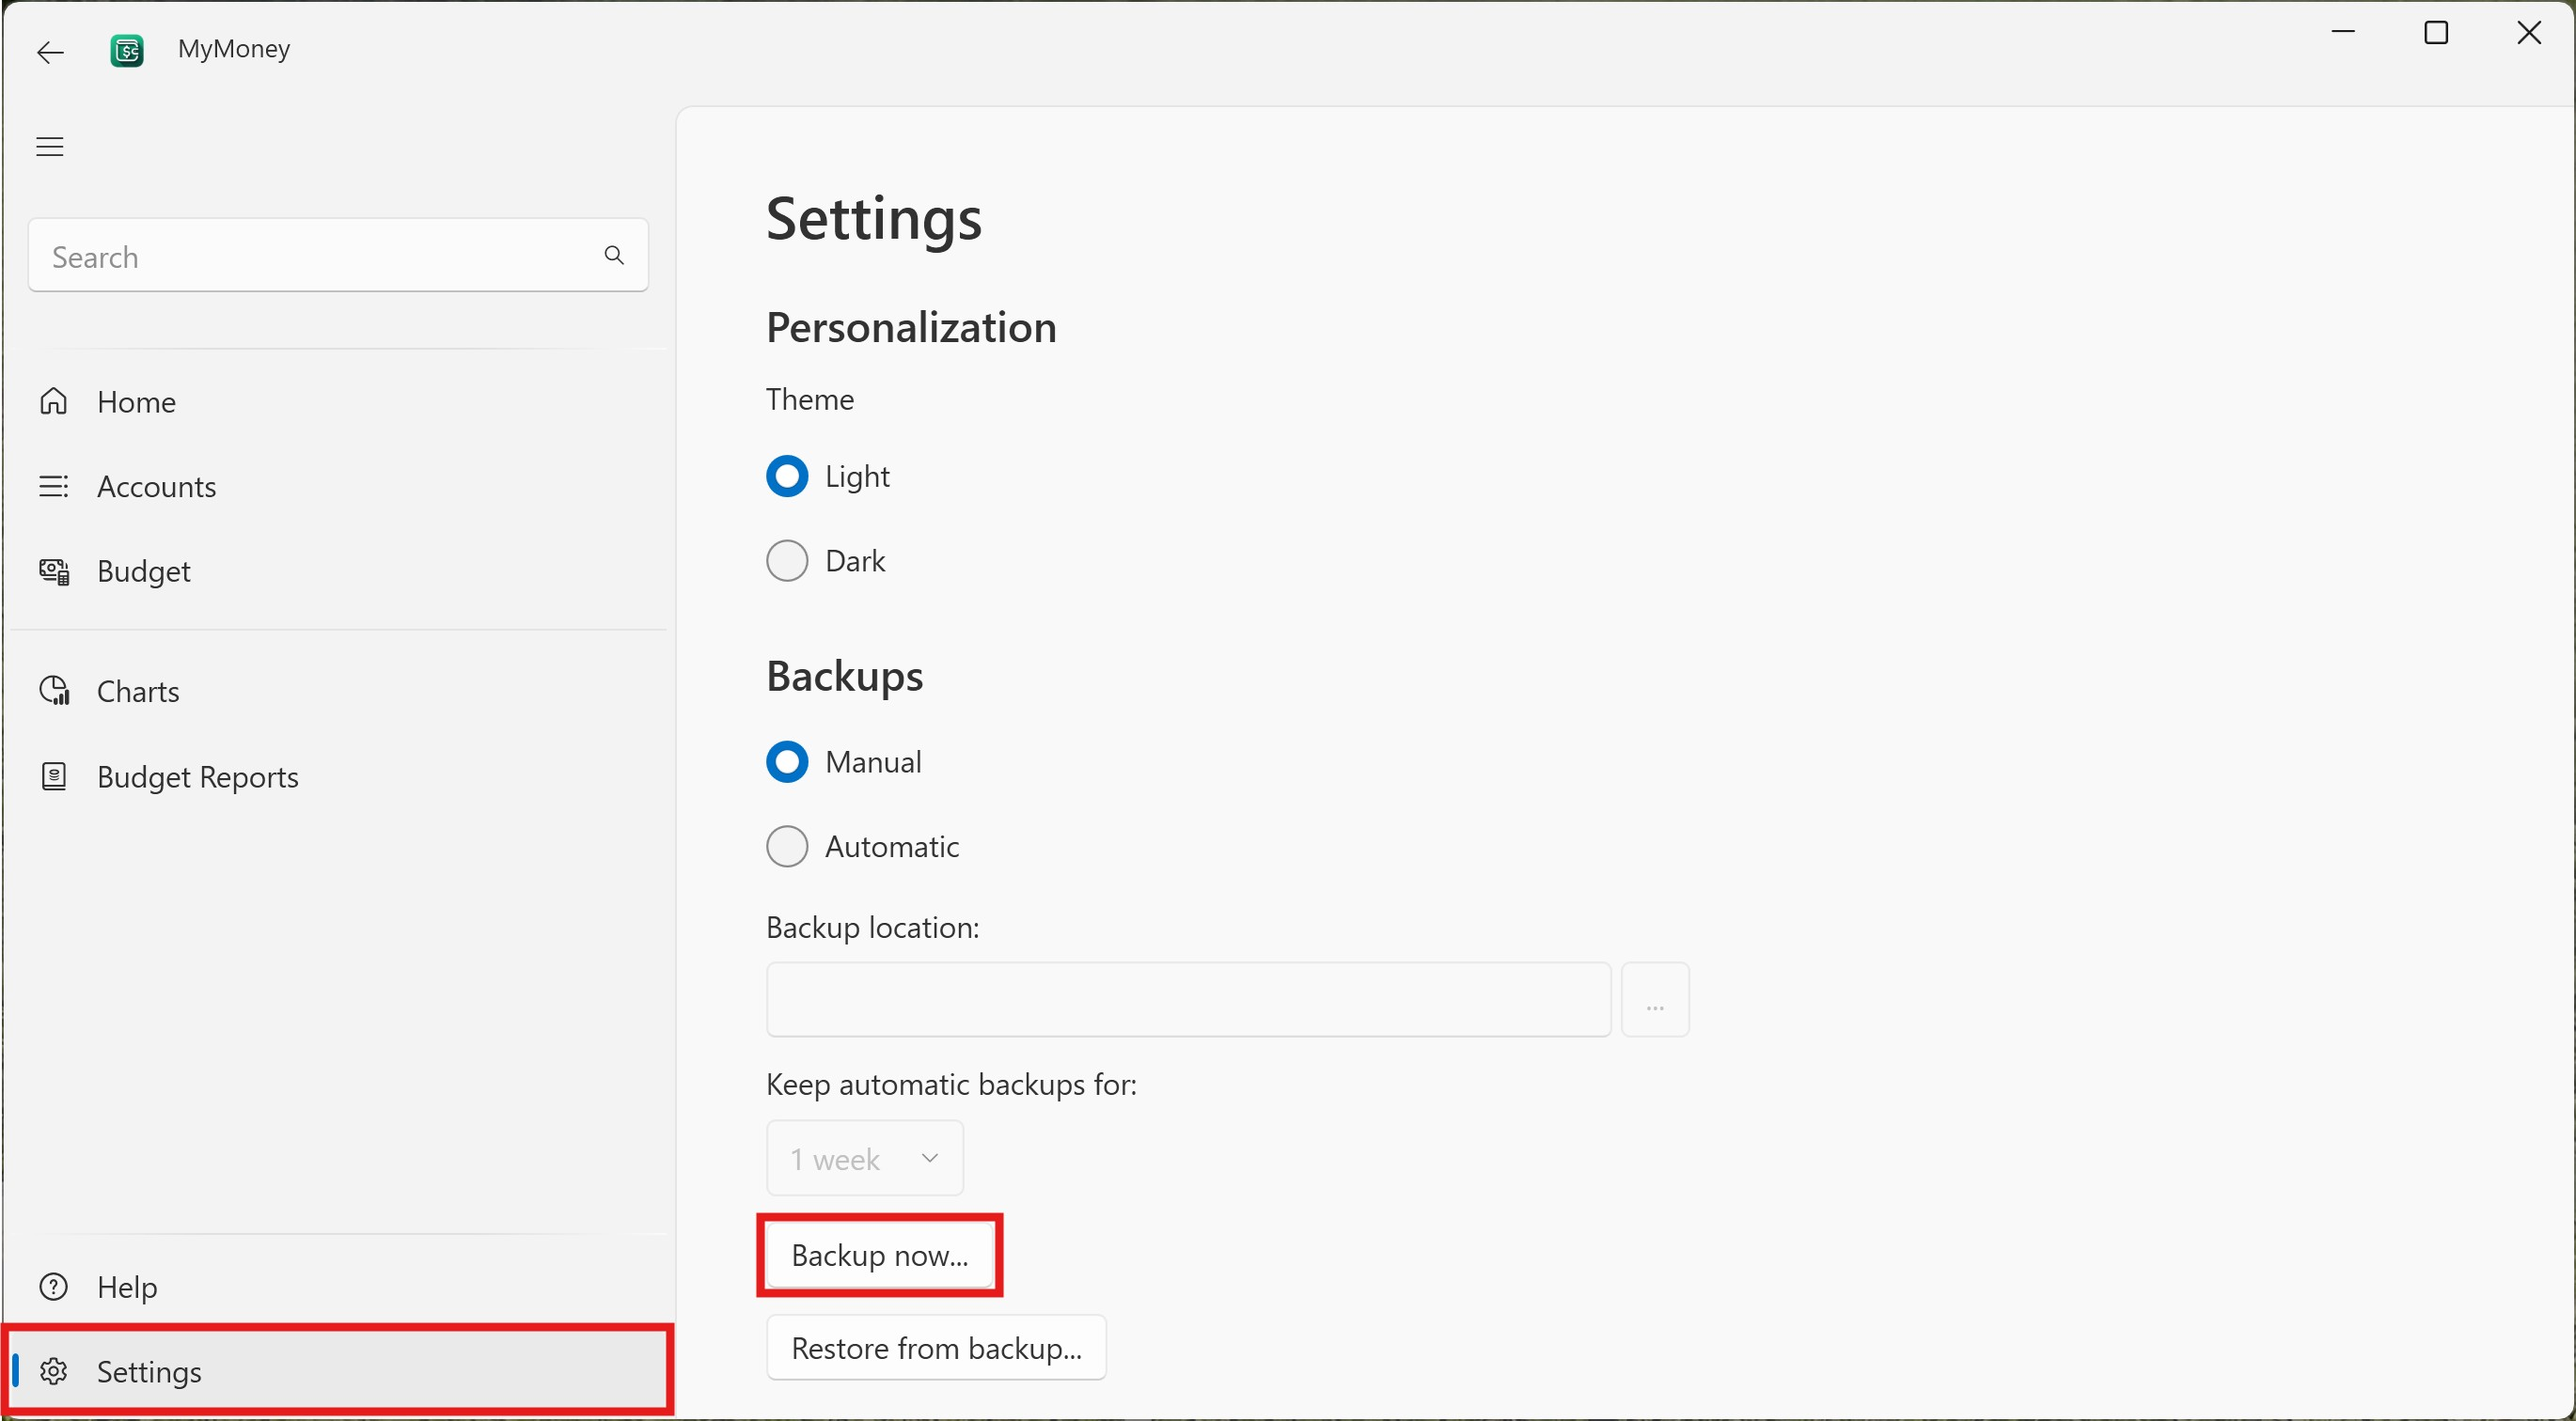
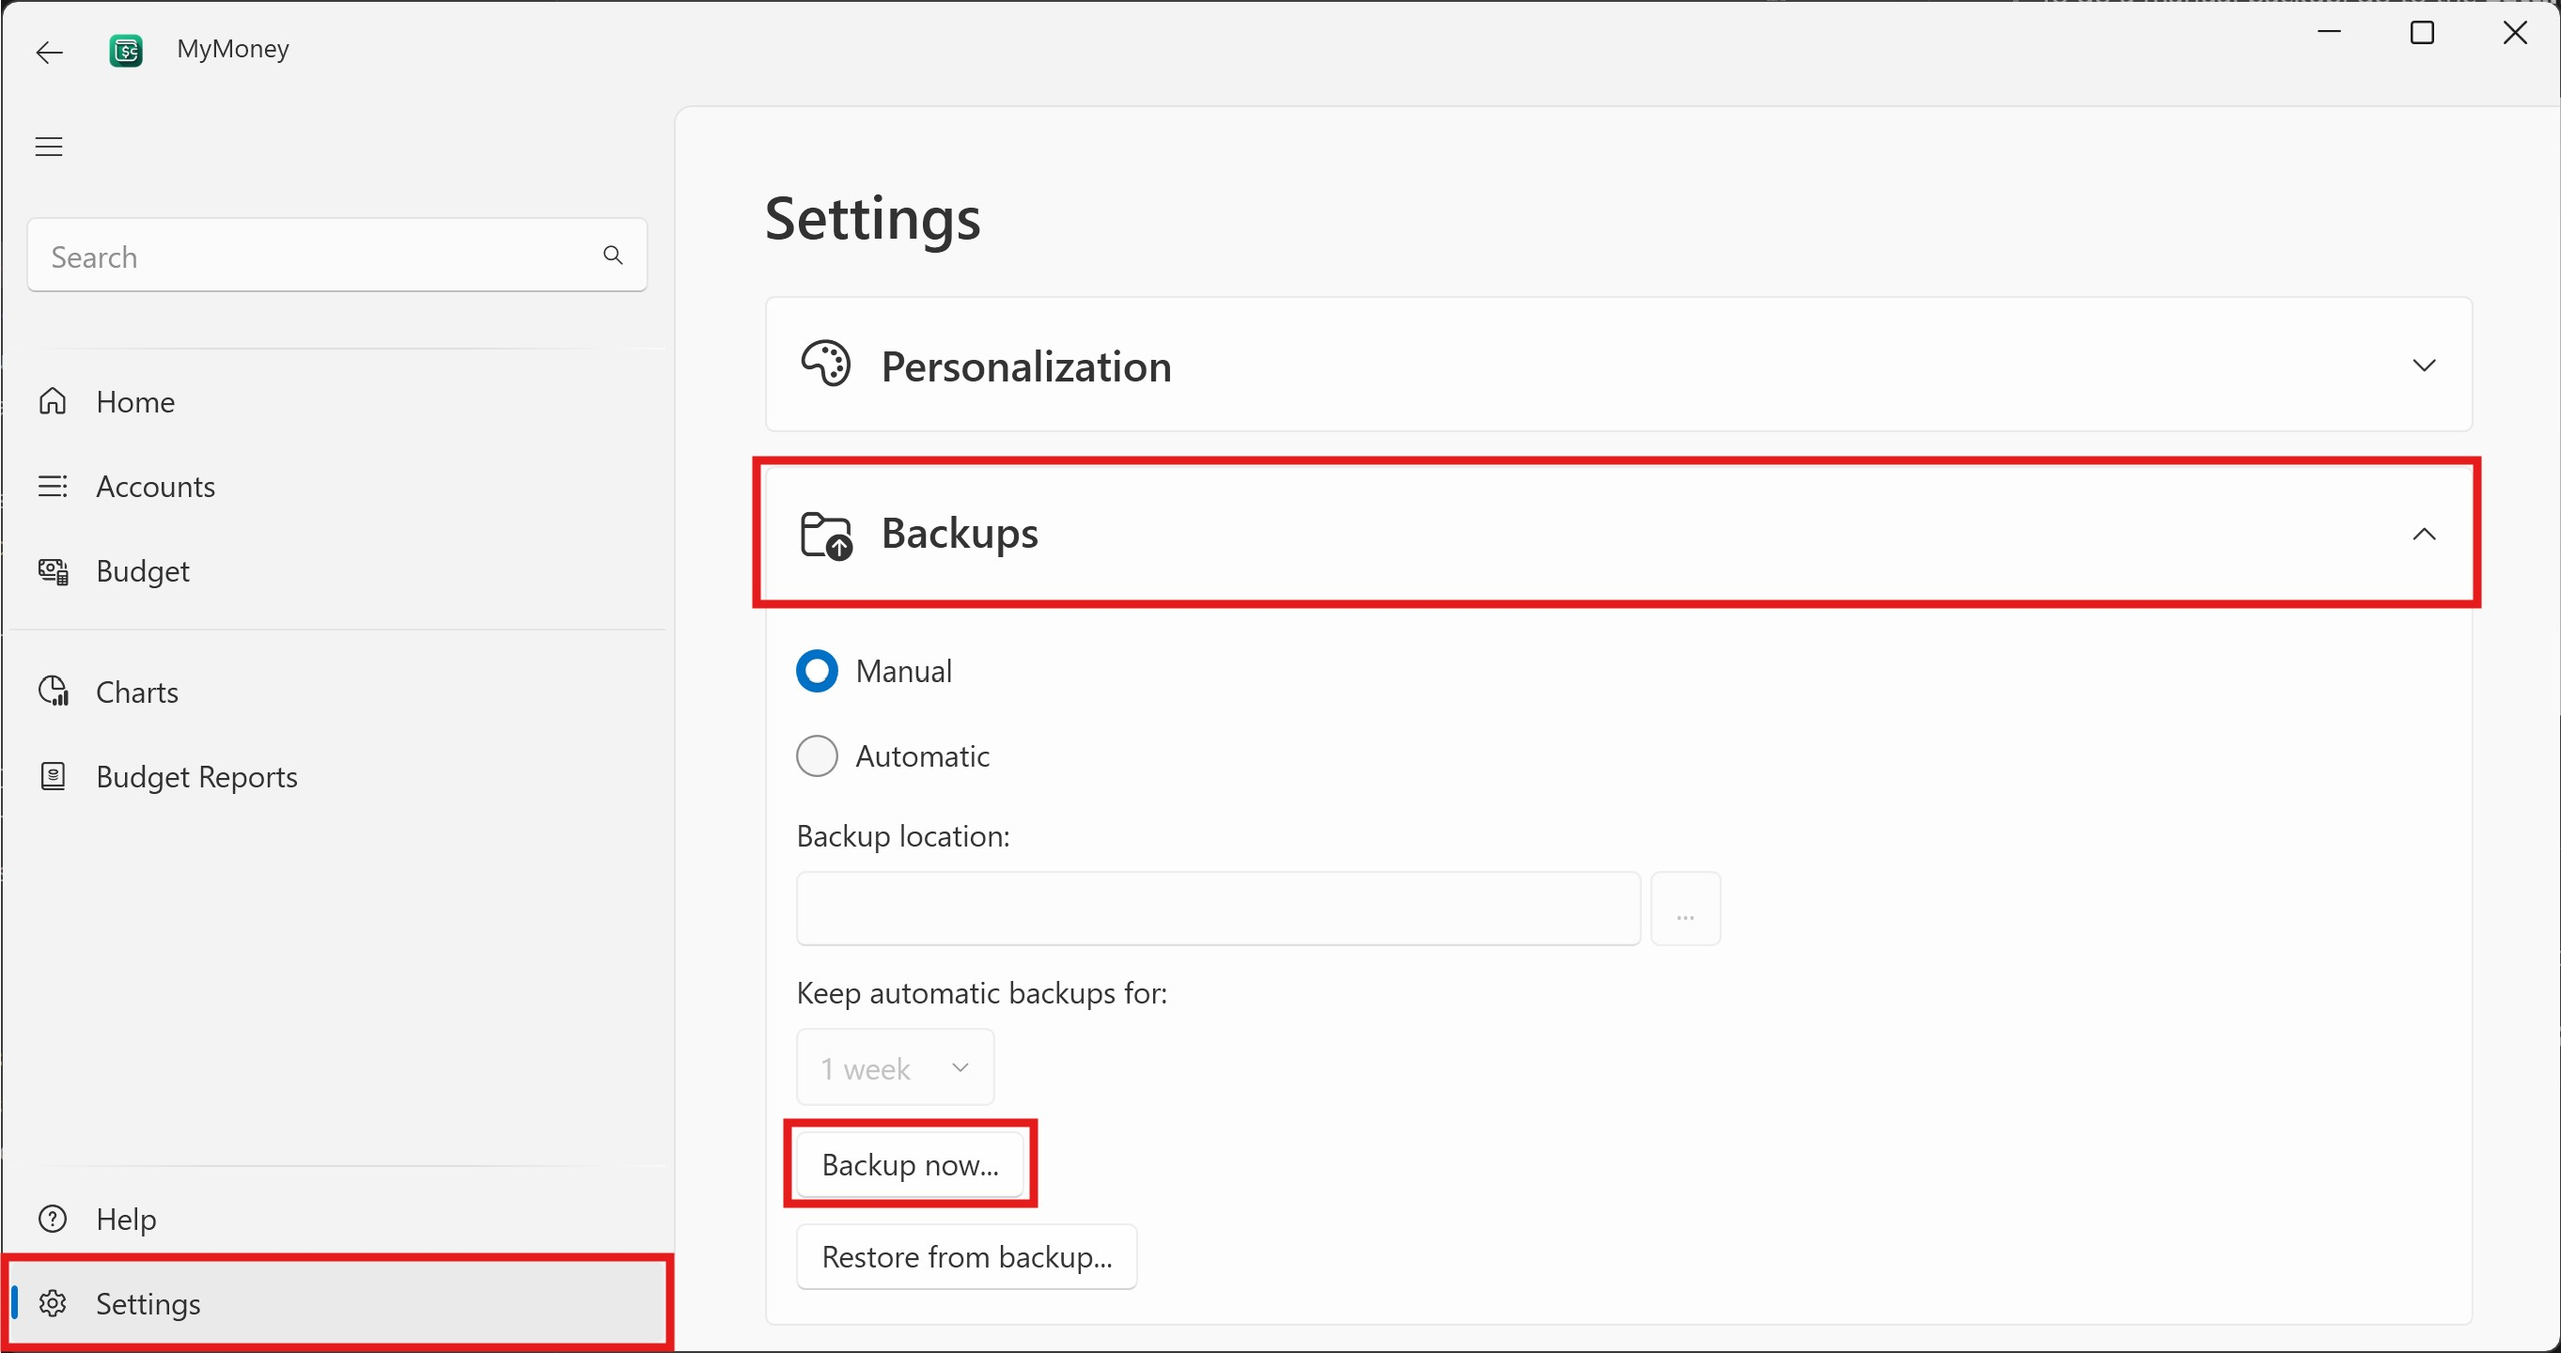
Update help docs and screenshots

diff --git a/Docs/docs/tasks/backup.md b/Docs/docs/tasks/backup.md
@@ -5,8 +5,8 @@ MyMoney supports manual and automatic backups.
 ## Manual backups
 
 A manual backup can be done at any time, even if automatic backups are turned on.
-To do a manual backup, go to the **Settings** page and click **Backup Now...**
-Select a location for the backup and click Save.
+To do a manual backup, go to the **Settings** page and expand the **Backups** 
+section. Click **Backup Now...** Select a location for the backup and click Save.
 
 ![Manual backups](../img/manual-backup.jpg)
 
@@ -15,9 +15,9 @@ Select a location for the backup and click Save.
 If automatic backups are turned on, the application saves a backup every time
 it closes. It will also delete any backups older than the a specified date.
 
-To setup automatic backups, go to the **Settings** page and select the
-**Automatic** radiobutton under **Backups**. Click the **...** button beside
-**Backup Location** and select a location to save the backups in, such as
+To setup automatic backups, go to the **Settings** page and expand the **Backups** 
+section. Select the **Automatic** radiobutton under **Backups**. Click the **...** 
+button beside **Backup Location** and select a location to save the backups in, such as
 a cloud drive or removable drive. Click Select Folder to close the dialog.
 
 Choose how long you want to keep the backups for from the dropdown. The
@@ -27,9 +27,10 @@ default is one week.
 
 ## Restoring a backup
 
-To restore a backup, go to the **Settings** page and click **Restore from backup...**.
-Choose the backup file to restore from, and confirm that you want to restore the backup.
-The application will close. Open it again and the backup will be restored.
+To restore a backup, go to the **Settings** page and expand the **Backups** section. 
+Click **Restore from backup...**. Choose the backup file to restore from, and confirm 
+that you want to restore the backup. The application will close. Open it again and 
+the backup will be restored.
 
 **Note:**
 The backup overwrites all the data currently in the database with the data in the backup.

diff --git a/Docs/docs/tasks/new-budget.md b/Docs/docs/tasks/new-budget.md
@@ -26,7 +26,7 @@ category
 Enter the category name and planned amount, then click OK
 
 <div style="text-align: center;">
-    <img src="/img/new-income-category-dialog.jpg" width="300">
+    <img src="../img/new-income-category-dialog.jpg" width="300">
 </div>
 
 
@@ -36,7 +36,7 @@ Click the **+** button beside "Expenses" to create a new expense
 group. Enter a name for the group and click "Add".
 
 <div style="text-align: center;">
-    <img src="/img/new-budget-expense-group-dialog.jpg"         width="300">
+    <img src="../img/new-budget-expense-group-dialog.jpg"         width="300">
 </div>
 
 Click the **Add Item** button in the newly created expense

diff --git a/Docs/docs/tutorials/first-month-workflow.md b/Docs/docs/tutorials/first-month-workflow.md
@@ -79,10 +79,14 @@ This automatically creates matching transactions in both accounts.
 Reports show how your plan compares to reality.  
 
 - **Dashboard**:  
-    - Budget report (Planned vs. Actual vs. Remaining).  
+    - Budget overview (Planned vs. Actual vs. Remaining).  
     - Income vs. Expenses chart for the current month.
+    - Net worth
+    - Cash flow vs. last month
+    - Budget alerts
+    - Spending vs. last month
 - **Budget Reports**:  
-    - View past months’ budgets.  
+    - View budget reports  
 - **Charts**:  
     - Income vs. Expense chart (last 12 months).  
     - Net worth chart (time period selectable).  

diff --git a/Docs/docs/index.md b/Docs/docs/index.md
@@ -2,9 +2,9 @@
 
 MyMoney is a personal finance program designed to help you manage your finances with ease. Track your accounts, monitor transactions, create a budget, and gain insights into your spending habits, all in one simple and intuitive application.
 
-## Beta Stage Warning
+## Pre-release Warning
 
-**Important:** MyMoney is currently in its beta stage of development. It may contain bugs. Please use at your own risk.
+**Important:** This is a pre-release of MyMoney. It may contain bugs. Please use at your own risk.
 
 ## Quick actions
 - [Get started →](getting-started.md)
